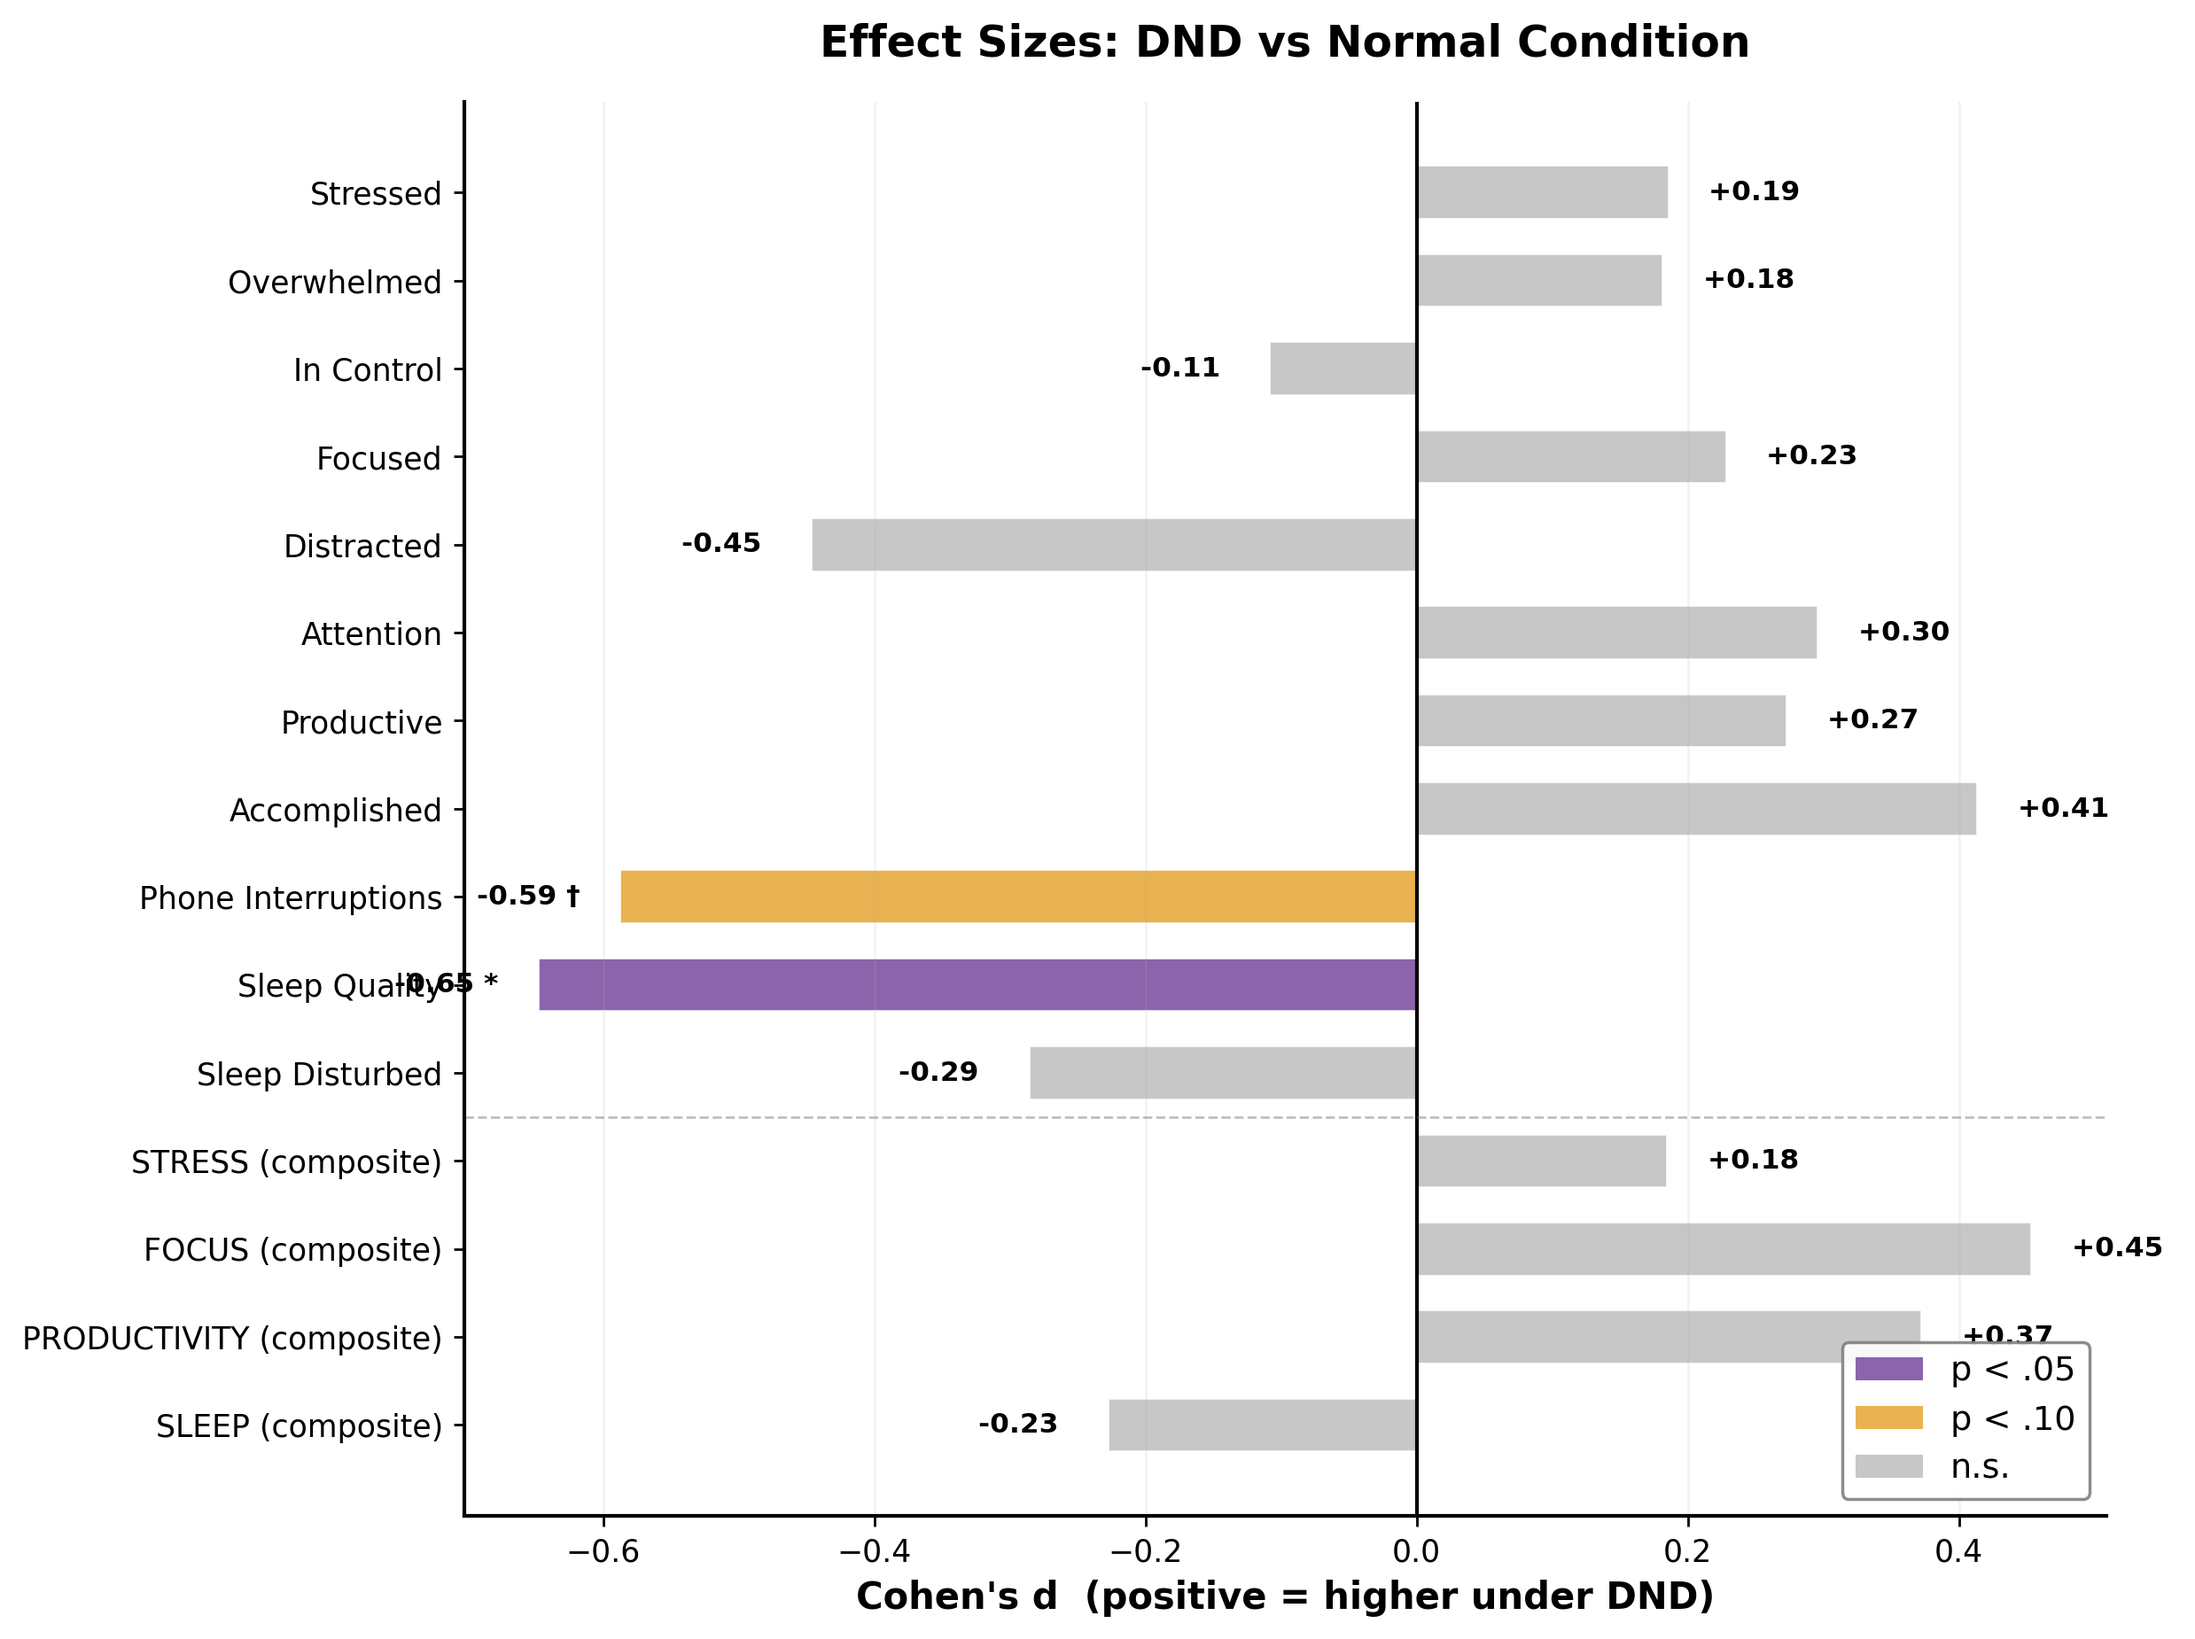
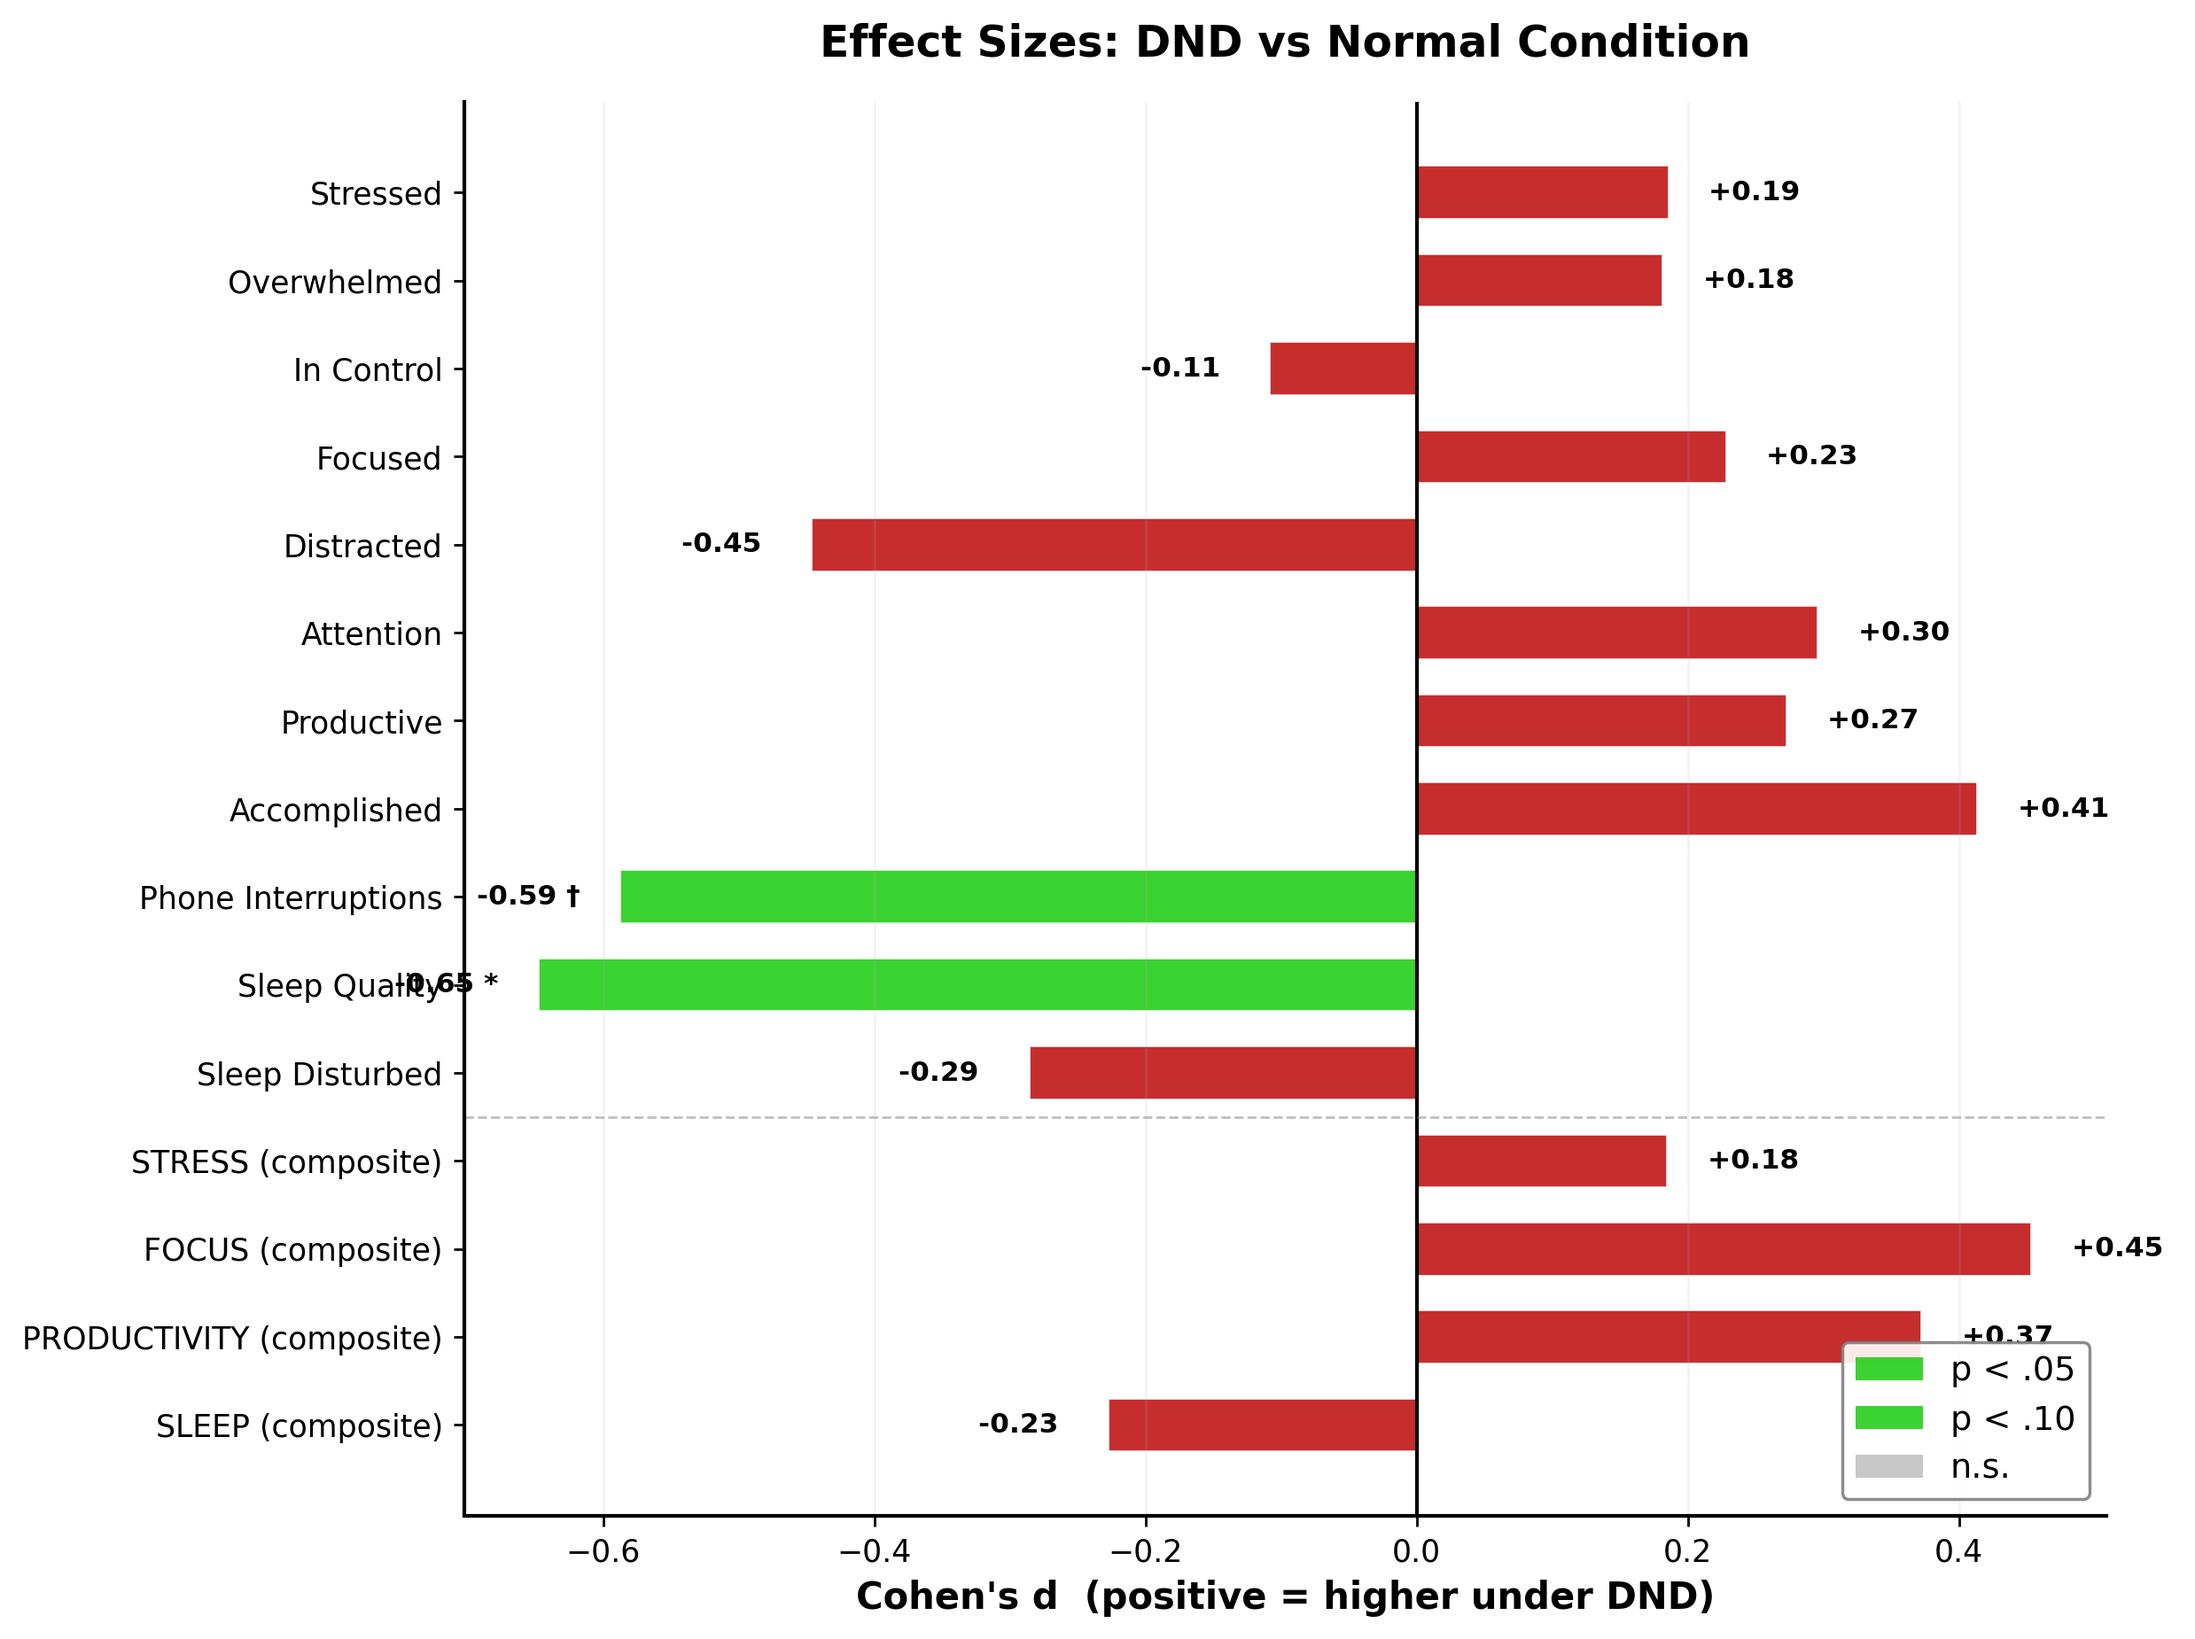
new fig w colors, noted as fig7 here

Changed region(s): [[0.2176, 0.2465, 0.9326, 0.8935], [0.5595, 0.0924, 0.7771, 0.2465]]

diff --git a/Mid_Post_Stats.py b/Mid_Post_Stats.py
@@ -363,8 +363,7 @@ ds = [r['Cohens_d'] for r in ttest_results]
 ps = [r['p'] for r in ttest_results]
 
 y_pos = np.arange(len(analysis_vars))
-colors = ['#7B4FA0' if p < .05 else NORM_COLOR if p < .10 else '#C0C0C0' for p in ps]
-
+colors = ["#20CD14" if p < .05 else "#3B82F6" if p < .10 else "#BE1010" for p in ps]
 ax.barh(y_pos, ds, color=colors, alpha=0.88, height=0.6, edgecolor='white', linewidth=0.5)
 ax.axvline(x=0, color='black', linewidth=1.2)
 ax.set_yticks(y_pos)
@@ -384,9 +383,9 @@ for i, (d, p) in enumerate(zip(ds, ps)):
     sig = '***' if p < .001 else '**' if p < .01 else '*' if p < .05 else '†' if p < .10 else ''
     ax.text(d + offset, i, f'{d:+.2f} {sig}', va='center', ha=ha, fontsize=9.5, fontweight='bold')
 
-legend_elements = [mpatches.Patch(facecolor='#7B4FA0', alpha=0.88, label='p < .05'),
-                   mpatches.Patch(facecolor=NORM_COLOR, alpha=0.88, label='p < .10'),
-                   mpatches.Patch(facecolor='#C0C0C0', alpha=0.88, label='n.s.')]
+legend_elements = [mpatches.Patch(facecolor='#20CD14', alpha=0.88, label='p < .05'),
+                   mpatches.Patch(facecolor='#3B82F6', alpha=0.88, label='p < .10 (marginal)'),
+                   mpatches.Patch(facecolor='#BE1010', alpha=0.88, label='n.s.')]
 ax.legend(handles=legend_elements, loc='lower right', fontsize=11, framealpha=0.9, edgecolor='gray')
 
 plt.tight_layout()
@@ -401,7 +400,7 @@ fig, axes = plt.subplots(1, 2, figsize=(12, 5))
 # Mid preferences
 pref_col = 'Based on your experience so far, which notification setting would you prefer for your daily life?'
 pref_order = ['Prefer DND ON', 'No preference', 'Prefer DND OFF']
-pref_colors = ['#8B6DB5', '#C0C0C0', '#E8A838']
+pref_colors = ['#20CD14', '#C0C0C0', '#BE1010']
 
 for idx, (survey, title) in enumerate([('Mid', 'Mid-Study Preferences'), ('Post', 'Post-Study Preferences')]):
     ax = axes[idx]

diff --git a/DND_Stats.py b/DND_Stats.py
@@ -523,7 +523,7 @@ for var in all_vars:
     ps.append(p)
 
 y_pos = np.arange(len(all_vars))
-colors = ['#7B4FA0' if p < .05 else NORM_COLOR if p < .10 else '#C0C0C0' for p in ps]
+colors = ["#20CD14" if p < .05 else "#20CD14" if p < .10 else "#BE1010" for p in ps]
 
 ax.barh(y_pos, ds, color=colors, alpha=0.88, height=0.6, edgecolor='white', linewidth=0.5)
 ax.axvline(x=0, color='black', linewidth=1.2)
@@ -547,8 +547,8 @@ for i, (d, p) in enumerate(zip(ds, ps)):
 # Separator between individual items and composites
 ax.axhline(y=10.5, color='gray', linewidth=0.8, linestyle='--', alpha=0.5)
 
-legend_elements = [mpatches.Patch(facecolor='#7B4FA0', alpha=0.88, label='p < .05'),
-                   mpatches.Patch(facecolor=NORM_COLOR, alpha=0.88, label='p < .10'),
+legend_elements = [mpatches.Patch(facecolor='#20CD14', alpha=0.88, label='p < .05'),
+                   mpatches.Patch(facecolor='#20CD14', alpha=0.88, label='p < .10'),
                    mpatches.Patch(facecolor='#C0C0C0', alpha=0.88, label='n.s.')]
 ax.legend(handles=legend_elements, loc='lower right', fontsize=11, framealpha=0.9, edgecolor='gray')
 
